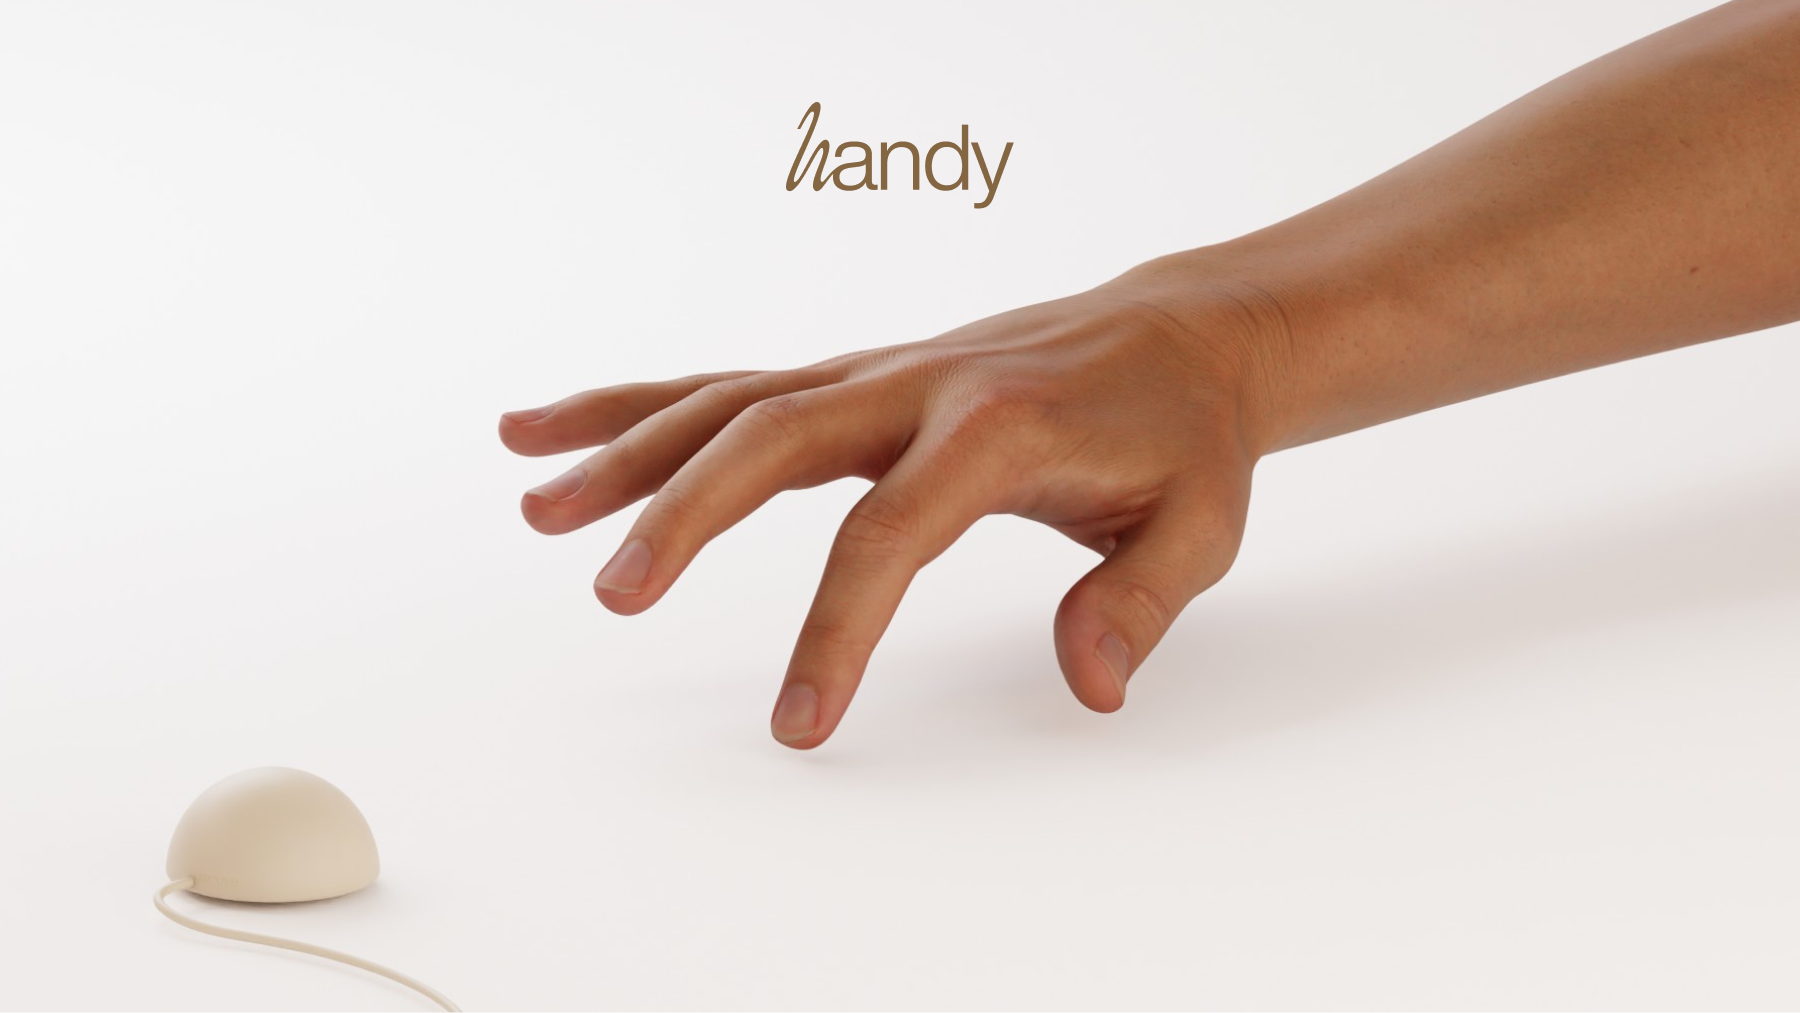
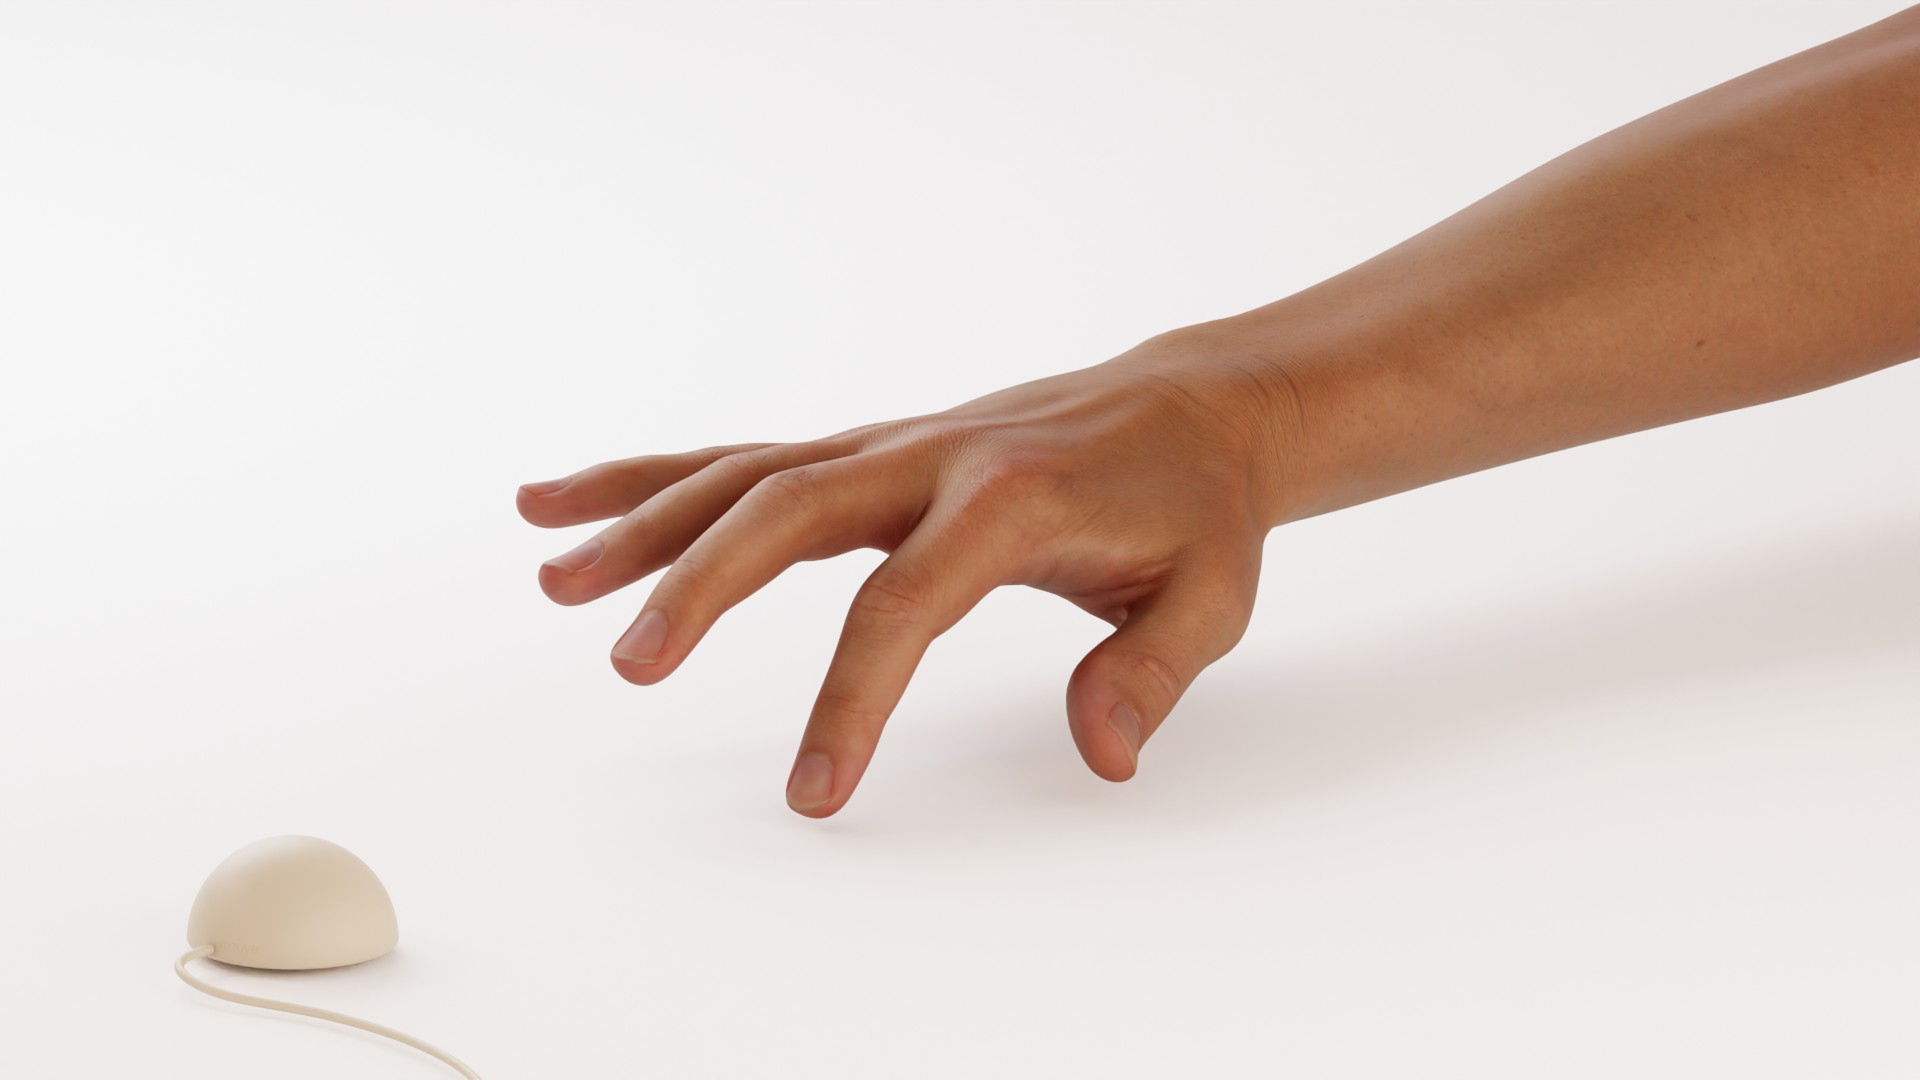
Update meta tags and cover image for improved social sharing

diff --git a/docs/index.html b/docs/index.html
@@ -13,9 +13,9 @@
     <meta property="og:title" content="handy - innovative tools for intuitive computer interaction">
     <meta property="og:description"
         content="handy transforms your movements into digital commands for seamless interaction with your computer.">
-    <meta property="og:image" content="https://handy.vision/docs/images/cover.png">
-    <meta property="twitter:image" content="https://handy.vision/docs/images/cover.png">
-    <meta property="og:url" content="">
+    <meta property="og:image" content="https://handy.vision/images/cover.png">
+    <meta property="twitter:image" content="https://handy.vision/images/cover.png">
+    <meta property="og:url" content="https://handy.vision">
     <meta property="og:type" content="website">
     <link rel="stylesheet" href="https://unpkg.com/@rnbws/renecss/dist/rene.min.css" />
     <link rel="icon" href="./images/faviconhandy.svg">
